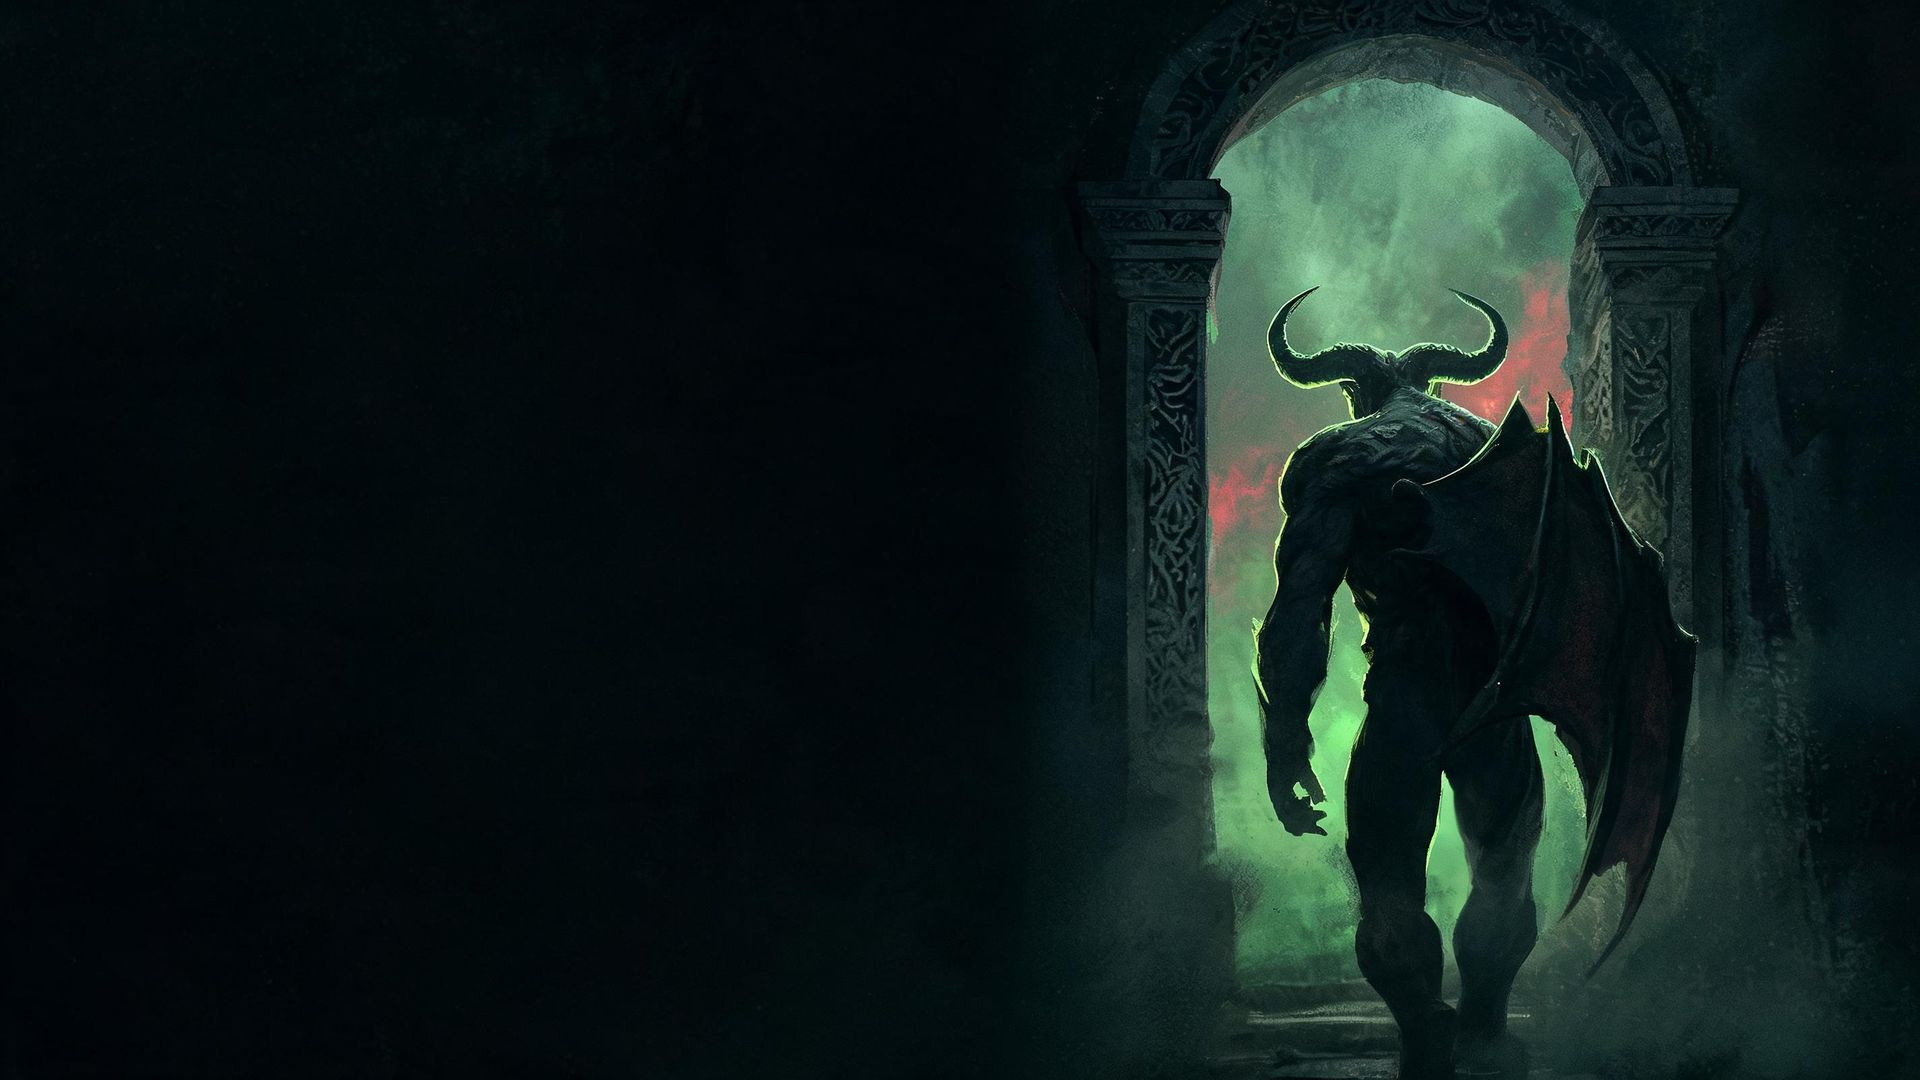
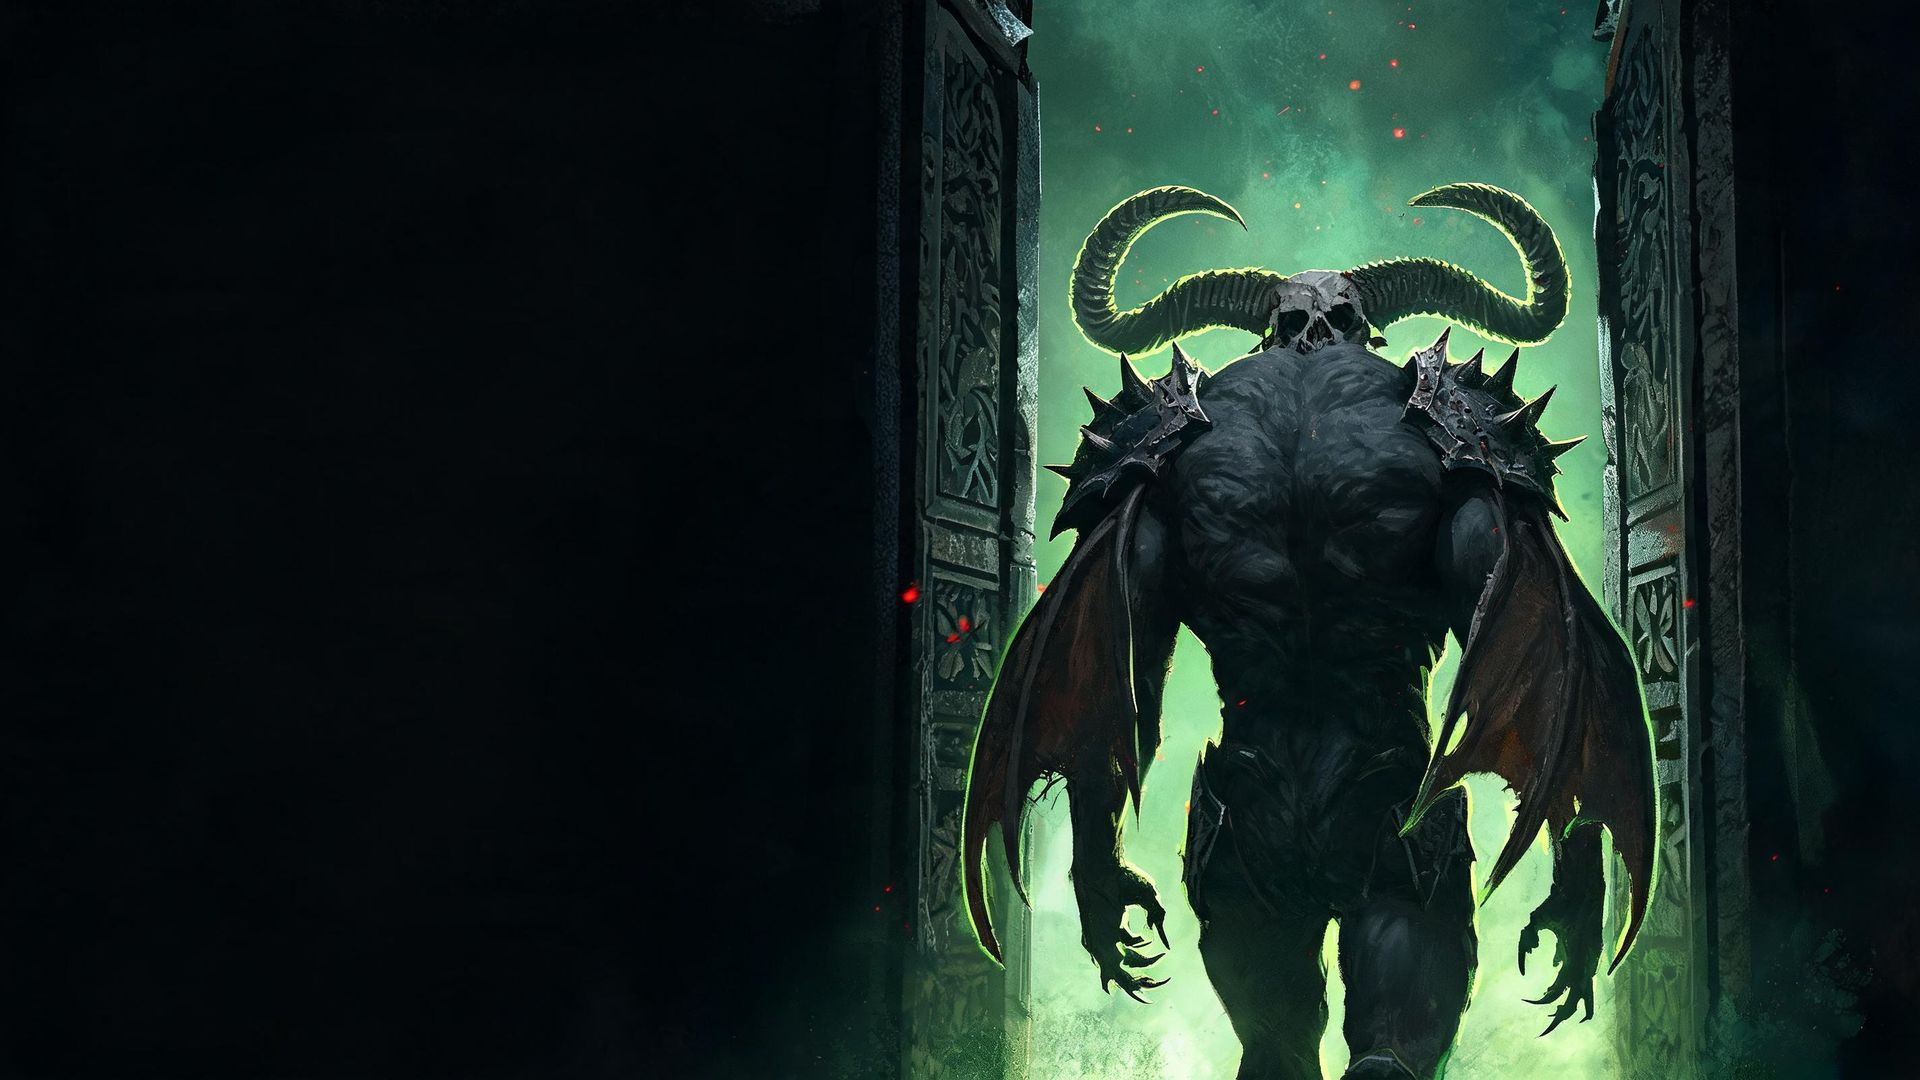
Volna 1.3.1: Night Stalker sign-in artwork refined

Changed region(s): [[0.4375, 0.0, 0.9375, 1.0]]

diff --git a/deploy/UI-STATE.md b/deploy/UI-STATE.md
@@ -1,0 +1,46 @@
+# Состояние интерфейса «Волны» (рабочая памятка)
+
+Дата: 20.10.2026. Нужна, чтобы не потерять договорённости при пересборках.
+
+## Раскладка комнаты
+
+- **Верхняя панель:** логотип + **Volna** (титул страницы), справа счётчик участников и «Пригласить».
+  Кнопки «Чат» больше нет — чат виден всегда.
+- **Левая колонка:** заголовок «Голосовые комнаты», список каналов, ниже «Участники».
+  Отдельной строки с названием комнаты нет.
+- **Список каналов:** `▣ Main` — текущая комната, у неё справа кнопка **＋** (создать подкомнату).
+  Ниже вложенные `└ Subroom 1`, `└ Subroom 2` … с отступом и линией.
+- **Центр:** сцена с артом, внизу — **чат во всю ширину** (без рамки, только линия сверху).
+- **Низ:** кнопки микрофон / звук / демонстрация / шумоподавление / завершить.
+
+## Палитра и шрифты
+
+- Фон `#050605`, акцент — кислотный лайм `#8EFF03`, панели полупрозрачные (стекло).
+- Шрифт **Manrope** локально (`public/fonts`, 6 файлов woff2), без внешних CDN.
+- Полосы прокрутки переопределены (узкие, скруглённые, лаймовые).
+
+## Фоны
+
+- `public/bg/kadran.jpg` — арт комнаты (арка с рунами).
+- `public/bg/nightstalker.jpg` — экран входа: рогатая крылатая фигура со спины в дверном проёме.
+  Оба арта оригинальные, сгенерированы для проекта (не ассеты Valve).
+
+## Названия комнат
+
+- Внутренние: `main`, подкомнаты — `main--<имя>`.
+- Отображение: `Main`, `Subroom N` (если имя не задано) или введённое имя как есть.
+- Переименование — двойной клик или ✎, хранится локально (alias).
+
+## Звуки
+
+- Вход в комнату и вход участника — два коротких тона вверх.
+- Выход участника — один тон пониже.
+
+## Приглашения
+
+- Код принимается в `#i=...` и в `?i=...` (второй вариант переживает мессенджеры).
+
+## Доступ
+
+- VPS: `https://31.76.29.68:8443`, комната `main`, пароль `volna-2487`.
+- Репозиторий: `bloodbath88/volna`; релизы v1.2.x–v1.3.x, английские заметки.

diff --git a/deploy/release-notes.md b/deploy/release-notes.md
@@ -1,4 +1,4 @@
-# Volna 1.3.0 — Night Stalker sign-in screen
+# Volna 1.3.1 — Night Stalker sign-in artwork
 
 Self-hosted voice rooms with screen sharing. This release is about the look and feel:
 a new visual language, a Discord-style channel list, and a chat that lives inside the room.
@@ -105,8 +105,8 @@ a new visual language, a Discord-style channel list, and a chat that lives insid
 SHA-256:
 
 ```
-44248ae6ffc44058b345bfd20fa1ca14349eb3ee6bc80a8d5c7318db1e5b5d5e  volna-voice-app.zip
-b6eed0004f753db6baa2f11773f3d13da4e65972d571cf32ea77f753928421c2  volna-voice-app-linux.tar.gz
+28d140b25020245adf1ea1874546308cd92a6b0283ba2b4fd00ece2e88136c68  volna-voice-app.zip
+c24e113dc94979b6d8061b42df91f8ddb439d24031912d3d66ffc6976f04b3e6  volna-voice-app-linux.tar.gz
 ```
 
 ## Quick start (Windows)
